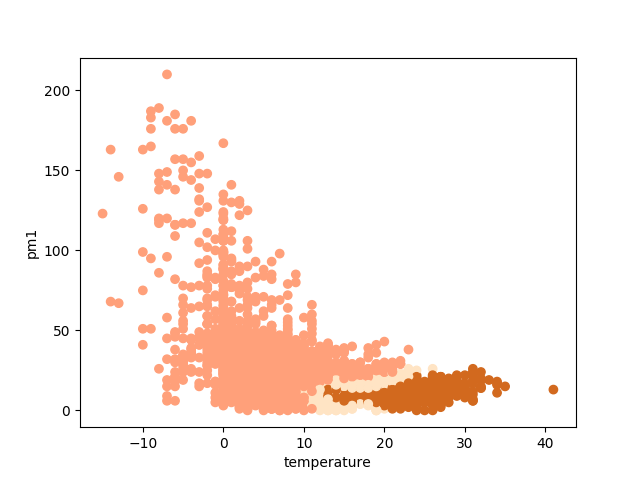
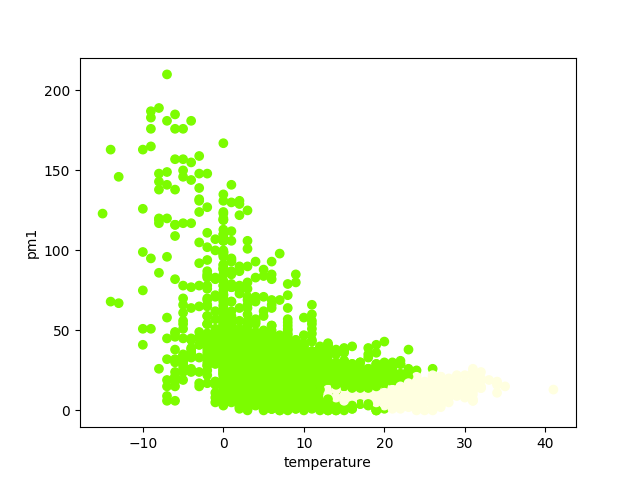
some changes

diff --git a/DataMining-Project2/DataMining_Project2.py b/DataMining-Project2/DataMining_Project2.py
@@ -111,18 +111,6 @@ def compleat(point, labels):
 # Function generates n random points 
 # and calculates density and distance to higher density point
 def get_and_calculate(sc, csv_file_name, cutoff_distance):
-
-    # Simple plot of generated points
-    def plot_of_x_and_y(points, x_label, y_label, file_name):
-        x = [point[x_label] for point in points]
-        y = [point[y_label] for point in points]
-        fig, ax = matplotlib.pyplot.subplots()
-        ax.scatter(x, y)
-        ax.set_xlabel(x_label)
-        ax.set_ylabel(y_label)
-        fig.savefig(file_name)
-        print("Image '%s' saved!" % file_name)
-
     with open(csv_file_name) as csvfile:
         points = [ [ elem for elem in row ] for row in csv.reader(csvfile, delimiter=';') ]
 
@@ -153,7 +141,24 @@ def get_and_calculate(sc, csv_file_name, cutoff_distance):
     print("points with higher density set")
     
     return points_with_distance_to_higher_density_point
-    
+ 
+def get_color(point, clusters_color):
+    if point["cluster"] is None:
+        return clusters_color[0]
+    return clusters_color[point["cluster"]]
+
+# Simple plot of generated points
+def plot_of_x_and_y(points, x_label, y_label, file_name):
+    x = [point[x_label] for point in points]
+    y = [point[y_label] for point in points]
+    c = [get_color(point, clusters_color) for point in points]
+    fig, ax = matplotlib.pyplot.subplots()
+    ax.scatter(x, y)
+    ax.set_xlabel(x_label)
+    ax.set_ylabel(y_label)
+    fig.savefig(file_name)
+    print("Image '%s' saved!" % file_name)
+
 def plot_of_density_and_distance_to_higher_density_point(points, file_name):
     points = points.collect()
     x = [point["density"] for point in points]
@@ -167,12 +172,6 @@ def plot_of_density_and_distance_to_higher_density_point(points, file_name):
     print("Image '%s' saved!" % file_name)
 
 def plot_clusters(points, x_label, y_label, file_name):
-
-    def get_color(point, clusters_color):
-        if point["cluster"] is None:
-            return clusters_color[0]
-        return clusters_color[point["cluster"]]
-
     x = [point[x_label] for point in points.collect()]
     y = [point[y_label] for point in points.collect()]
     c = [get_color(point, clusters_color) for point in points.collect()]
@@ -315,8 +314,6 @@ def check_of_cutoff_distance(sc, clusters, limit, cutoff_distance_min, cutoff_di
         #    continue
 
 def main(sc, csv_file_name, clusters, cutoff_distance):
-    clusters_color = ['black', 'green', 'blue', 'red', 'yellow', 'purple', 'cyan', 'lime']
-
     points = get_and_calculate(sc, csv_file_name, cutoff_distance)
     points = choose_centers_of_clusters(points, clusters)
     print("centers done")
@@ -325,6 +322,7 @@ def main(sc, csv_file_name, clusters, cutoff_distance):
     points = assign_points_to_clusters(points)
     print("clusters done")
     plot_clusters(points, X, Y, 'clusters.png')  
+    plot_of_x_and_y(points, "day_of_year", "pm1", "date_and_pm1_clusters.png")
 
     print("\n\nPoints:")
     for point in points.collect():
